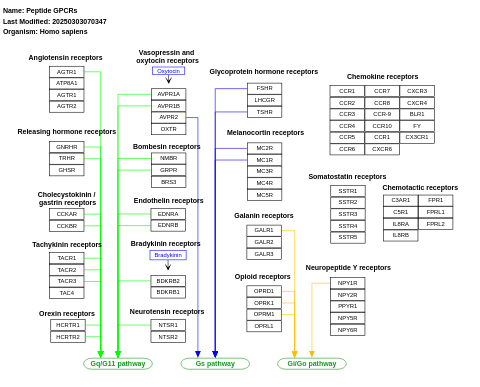
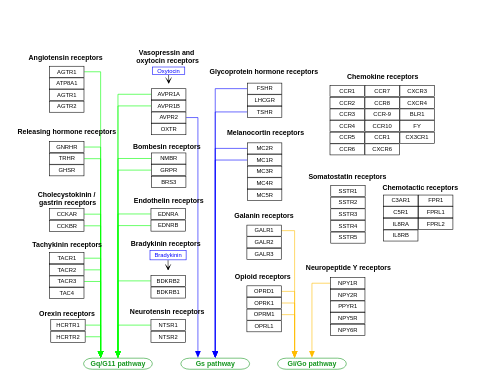
Update tsv, md and png files

Changed region(s): [[0.0, 0.0, 0.2188, 0.093]]

diff --git a/_pathways/WP24.md b/_pathways/WP24.md
@@ -37,15 +37,15 @@ description: G protein–coupled receptors (GPCRs) which are also known as seven
   called seven-transmembrane receptors because they pass through the cell membrane
   seven times. [Wikipedia](https://en.wikipedia.org/wiki/G_protein%E2%80%93coupled_receptor)  Proteins
   on this pathway have targeted assays available via the [CPTAC Assay Portal](https://assays.cancer.gov/available_assays?wp_id=WP24)
-last-edited: 2025-03-04
+last-edited: 2026-07-01
 ndex: c11bfcb0-8b60-11eb-9e72-0ac135e8bacf
 organisms:
 - Homo sapiens
 redirect_from:
 - /index.php/Pathway:WP24
 - /instance/WP24
-- /instance/WP24_r137493
-revision: r137493
+- /instance/WP24_r20260701133000
+revision: r20260701133000
 schema-jsonld:
 - '@context': https://schema.org/
   '@id': https://wikipathways.github.io/pathways/WP24.html